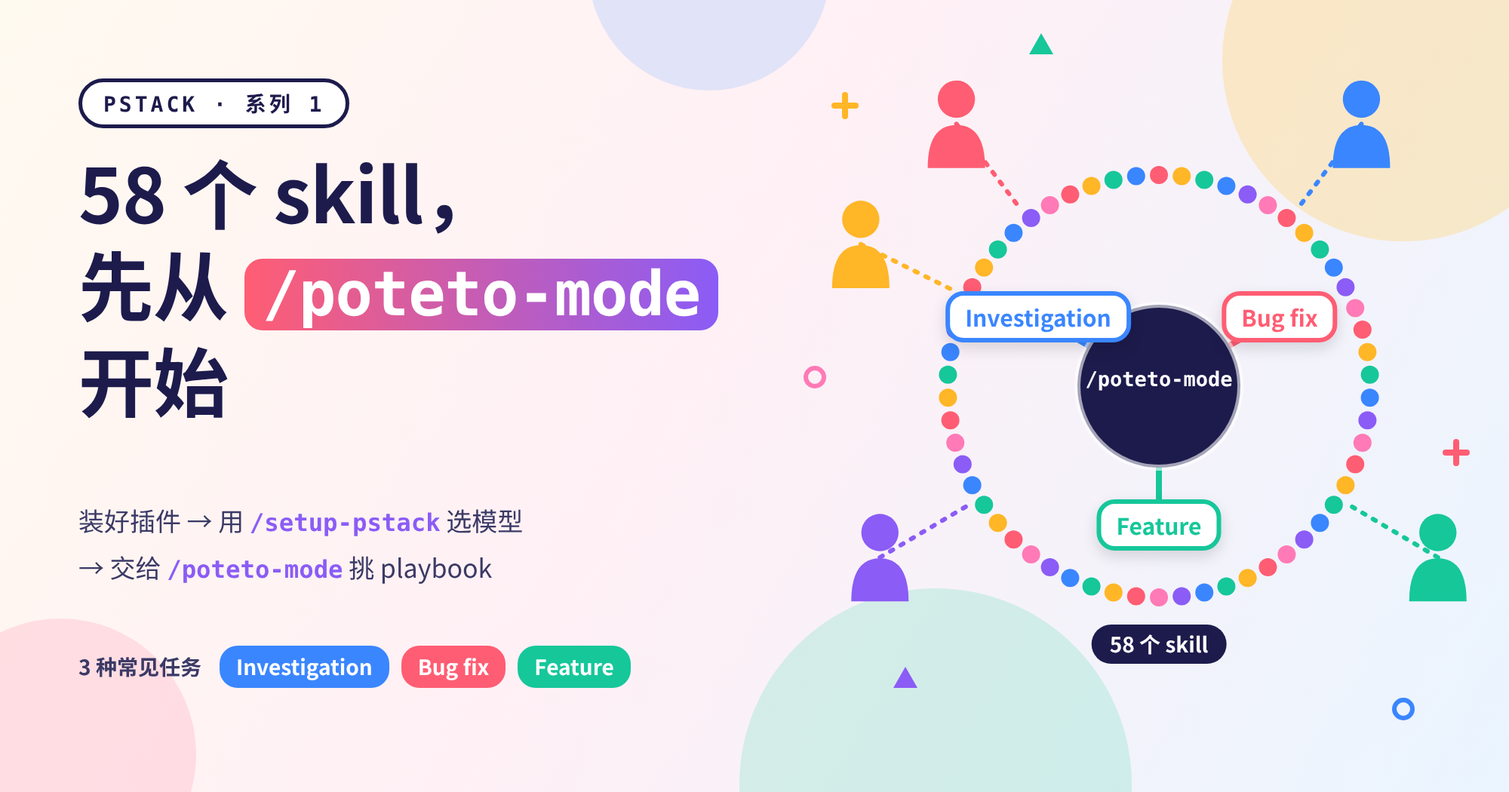
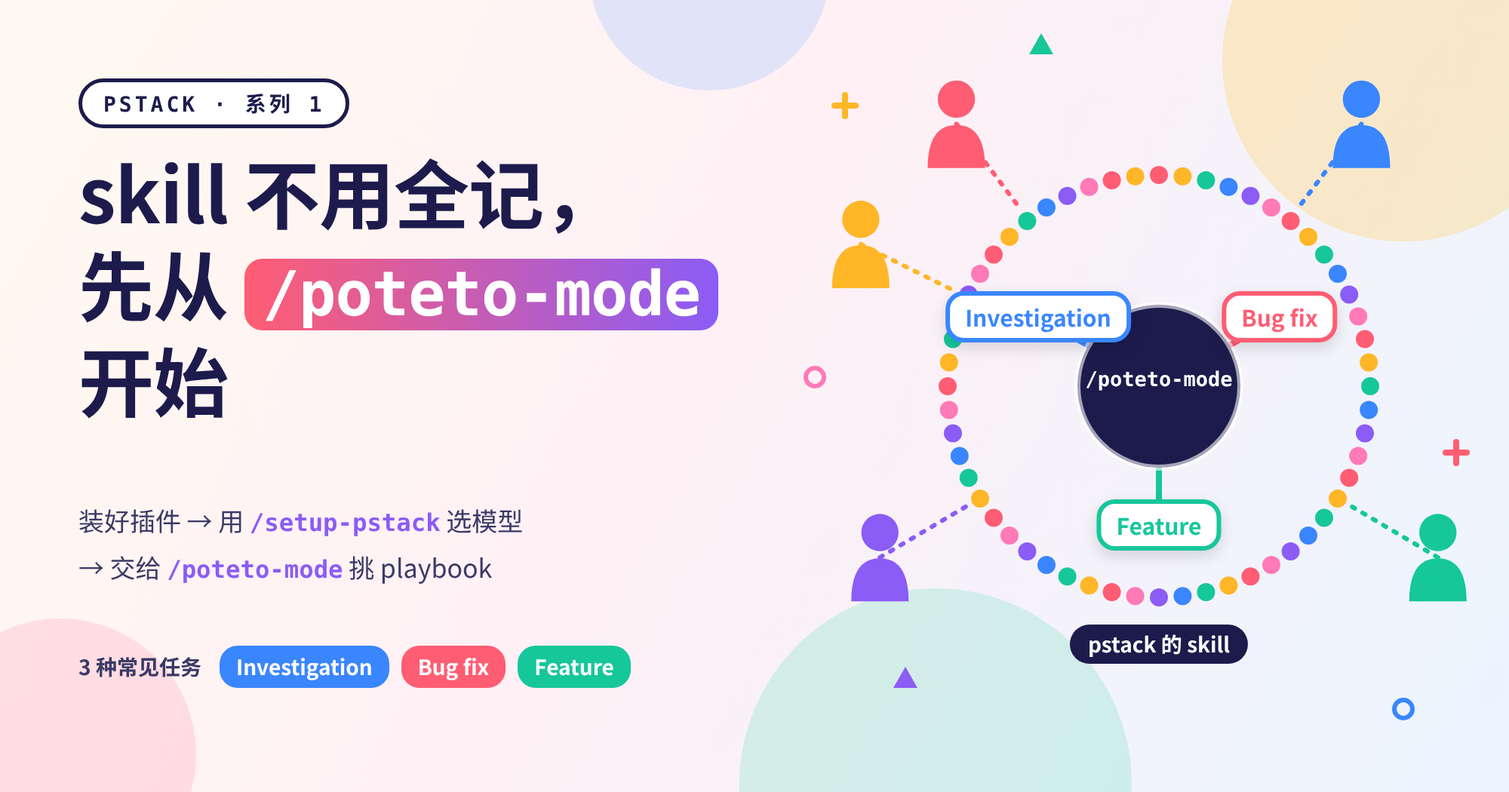
pstack 系列（1）：基準版本改回 0.15.29（88d4751）
對齊第 2 篇的版本表；版本框補上 2026-10-24 查證的最新版 0.15.32（e853501）與 diff 結果；連結改指 88d4751；cover 不再印 skill 數。

diff --git a/_posts/en/2026-10-22-pstack-install-routing.md b/_posts/en/2026-10-22-pstack-install-routing.md
@@ -10,9 +10,9 @@ image:
   alt: "How to install pstack, check its version, pick models with /setup-pstack, and then hand every task to /poteto-mode."
 ---
 
-pstack helps an AI coding assistant work in a more orderly way, but open it up and there are 58 skills. This post shows you how to start: install pstack, confirm which version you got, pick your models, and then hand every task to `/poteto-mode`. You don't need to learn every name first.
+pstack helps an AI coding assistant work in a more orderly way, but open it up and there are dozens of skills. This post shows you how to start: install pstack, confirm which version you got, pick your models, and then hand every task to `/poteto-mode`. You don't need to learn every name first.
 
-A few terms first. An AI coding assistant is a tool such as Cursor or Claude Code that can read and write the files in your project and write code for you. A skill is a set of instructions that tells the AI how to do one kind of work, and you call it with a slash command such as `/poteto-mode`. pstack is a set of skills that Lauren Tan maintains in Cursor's official plugin repository, [`cursor/plugins`](https://github.com/cursor/plugins/tree/e853501d1a466d9cfcda381a677b09b0d17f758f/pstack). A playbook is a fixed list of steps for one type of task; for example, "fix a bug" means reproduce it, find the cause, fix it, and then verify. A subagent is a separate AI that the main chat sends off to do one small piece of work. A token is the unit an AI's usage is counted in; the more it reads and writes, the more tokens it uses.
+A few terms first. An AI coding assistant is a tool such as Cursor or Claude Code that can read and write the files in your project and write code for you. A skill is a set of instructions that tells the AI how to do one kind of work, and you call it with a slash command such as `/poteto-mode`. pstack is a set of skills that Lauren Tan maintains in Cursor's official plugin repository, [`cursor/plugins`](https://github.com/cursor/plugins/tree/88d47514b82e7c44f00f2b2a72ff6dd12158038c/pstack). A playbook is a fixed list of steps for one type of task; for example, "fix a bug" means reproduce it, find the cause, fix it, and then verify. A subagent is a separate AI that the main chat sends off to do one small piece of work. A token is the unit an AI's usage is counted in; the more it reads and writes, the more tokens it uses.
 
 The whole flow has three steps: install once, pick models once with `/setup-pstack`, and start every new task with `/poteto-mode`. Say what you want and what "done" looks like, and it picks the playbook. When you're not sure what to use, ask `/poteto-help`.
 
@@ -23,23 +23,23 @@ The example prompts in this post are generic. Copy them and swap in details from
 > - Series guide: What pstack is and how to read the four parts (not yet published)
 > - Next (Part 2): [Understand the code, then design, before you change it](/posts/pstack-understand-design/)
 >
-> **Version note**: This post is based on pstack [version `0.15.32`](https://github.com/cursor/plugins/blob/e853501d1a466d9cfcda381a677b09b0d17f758f/pstack/.cursor-plugin/plugin.json), at `cursor/plugins` main commit `e853501` (2026-10-24 10:32 Taipei time). The pstack folder last changed in commit `e73df47` (2026-10-24 06:56). The Claude Code commands and menus follow the [official docs](https://code.claude.com/docs/en/plugins/install) as read on 2026-10-24. Later versions may change commands and behavior.
+> **Version note**: This post is based on pstack [version `0.15.29`](https://github.com/cursor/plugins/blob/88d47514b82e7c44f00f2b2a72ff6dd12158038c/pstack/.cursor-plugin/plugin.json), at `cursor/plugins` commit `88d4751`, the version when this post first went out on 2026-10-22. When it was rewritten as a tutorial on 2026-10-24, it stayed on this version. The Claude Code commands and menus follow the [official docs](https://code.claude.com/docs/en/plugins/install) as read on 2026-10-24. Later versions may change commands and behavior.
 >
-> This post first went out on 2026-10-22 based on `0.15.29` (`88d4751`). On 2026-10-24 it was rewritten as a tutorial and updated to the newer version.
+> When checked on 2026-10-24 at 10:51 Taipei time, the latest version on `cursor/plugins` main was `0.15.32` (commit `e853501`), and the skill count had risen to 58 with the addition of `statechart` and `ketchup-video`. Compared with `0.15.29`, `setup-pstack`, the install guide, and the Claude Code notes haven't changed; `poteto-mode`'s SKILL.md and playbooks haven't changed, and only its internal scripts were updated; `poteto-help` only added two rows for those two new skills to its lookup table.
 {: .prompt-info }
 
 ## What pstack Installs
 
-Version `0.15.32` has 58 skills, and each skill is a slash command. It also has two dedicated subagents, `poteto-agent` and `comment-sicko`, plus 23 playbooks under `poteto-mode`.
+Version `0.15.29` has 56 skills, and each skill is a slash command. It also has two dedicated subagents, `poteto-agent` and `comment-sicko`, plus 23 playbooks under `poteto-mode`.
 
-In Claude Code, a plugin's commands carry the plugin's name as a prefix, so Cursor's `/poteto-mode` becomes `/pstack:poteto-mode` (see the [README](https://github.com/cursor/plugins/blob/e853501d1a466d9cfcda381a677b09b0d17f758f/pstack/README.md#L30)). The examples below use the Claude Code form; in Cursor, just drop `pstack:`. Other differences are listed in the official [Claude Code notes](https://github.com/cursor/plugins/blob/e853501d1a466d9cfcda381a677b09b0d17f758f/pstack/docs/harness/claude-code.md).
+In Claude Code, a plugin's commands carry the plugin's name as a prefix, so Cursor's `/poteto-mode` becomes `/pstack:poteto-mode` (see the [README](https://github.com/cursor/plugins/blob/88d47514b82e7c44f00f2b2a72ff6dd12158038c/pstack/README.md#L28)). The examples below use the Claude Code form; in Cursor, just drop `pstack:`. Other differences are listed in the official [Claude Code notes](https://github.com/cursor/plugins/blob/88d47514b82e7c44f00f2b2a72ff6dd12158038c/pstack/docs/harness/claude-code.md).
 
 ![Four steps: install pstack, check and update or pin the version, pick models with /setup-pstack, start each task with /poteto-mode](install-setup-flow.en.png){: width="800" height="450" }
 _The first-run flow: install, check the version, pick models, then start from /poteto-mode._
 
 ## Step 1: Install
 
-The [README](https://github.com/cursor/plugins/blob/e853501d1a466d9cfcda381a677b09b0d17f758f/pstack/README.md#L15-L26) and the [setup guide](https://github.com/cursor/plugins/blob/e853501d1a466d9cfcda381a677b09b0d17f758f/pstack/docs/guide/01-setup.md#L5-L15) list two ways to install. In a Cursor chat, type:
+The [README](https://github.com/cursor/plugins/blob/88d47514b82e7c44f00f2b2a72ff6dd12158038c/pstack/README.md#L15-L26) and the [setup guide](https://github.com/cursor/plugins/blob/88d47514b82e7c44f00f2b2a72ff6dd12158038c/pstack/docs/guide/01-setup.md#L5-L15) list two ways to install. In a Cursor chat, type:
 
 ```text
 /add-plugin pstack
@@ -69,11 +69,11 @@ After installing, confirm which version you have. According to the [Claude Code 
 claude plugin list
 ```
 
-Compare the version with [`plugin.json`](https://github.com/cursor/plugins/blob/e853501d1a466d9cfcda381a677b09b0d17f758f/pstack/.cursor-plugin/plugin.json) to see whether you have the same version this post uses.
+Compare the version with [`plugin.json`](https://github.com/cursor/plugins/blob/88d47514b82e7c44f00f2b2a72ff6dd12158038c/pstack/.cursor-plugin/plugin.json) to see whether you have the same version this post uses.
 
 ### Updates: Off by Default
 
-According to the [README](https://github.com/cursor/plugins/blob/e853501d1a466d9cfcda381a677b09b0d17f758f/pstack/README.md#L28) and the [Claude Code docs](https://code.claude.com/docs/en/plugins/install#keep-plugins-updated), Claude Code leaves auto-update **off** for third-party marketplaces, so pstack stays on the version you installed.
+According to the [Claude Code docs](https://code.claude.com/docs/en/plugins/install#keep-plugins-updated), Claude Code leaves auto-update **off** for third-party marketplaces, so pstack stays on the version you installed.
 
 - **To update once by hand**: run the line below in your terminal.
 - **To turn on auto-update**: type `/plugin` in a chat, open the Marketplaces tab, select `cursor-plugins`, and choose Enable auto-update.
@@ -97,7 +97,7 @@ The official docs support adding a local folder as a marketplace. So you can dow
 
 ```bash
 git clone https://github.com/cursor/plugins.git ~/src/cursor-plugins
-git -C ~/src/cursor-plugins checkout e853501d1a466d9cfcda381a677b09b0d17f758f
+git -C ~/src/cursor-plugins checkout 88d47514b82e7c44f00f2b2a72ff6dd12158038c
 claude plugin marketplace add ~/src/cursor-plugins
 claude plugin install pstack@cursor-plugins
 ```
@@ -108,9 +108,9 @@ This is the same "clone, then check out a reviewed commit" approach the [supply-
 
 ## Step 3: Pick Models With /setup-pstack
 
-pstack splits work across roles, such as the one that writes code, the one that makes judgment calls, and the ones that sit on a review panel, and each role can use a different model. [`/setup-pstack`](https://github.com/cursor/plugins/blob/e853501d1a466d9cfcda381a677b09b0d17f758f/pstack/skills/setup-pstack/SKILL.md) picks the models for those roles.
+pstack splits work across roles, such as the one that writes code, the one that makes judgment calls, and the ones that sit on a review panel, and each role can use a different model. [`/setup-pstack`](https://github.com/cursor/plugins/blob/88d47514b82e7c44f00f2b2a72ff6dd12158038c/pstack/skills/setup-pstack/SKILL.md) picks the models for those roles.
 
-**When to use it**: once after installing. Run it again when you switch accounts or plans, or want different models. According to the [setup guide](https://github.com/cursor/plugins/blob/e853501d1a466d9cfcda381a677b09b0d17f758f/pstack/docs/guide/01-setup.md#L29), a rerun keeps any role you changed.
+**When to use it**: once after installing. Run it again when you switch accounts or plans, or want different models. According to the [setup guide](https://github.com/cursor/plugins/blob/88d47514b82e7c44f00f2b2a72ff6dd12158038c/pstack/docs/guide/01-setup.md#L29), a rerun keeps any role you changed.
 
 **The command**:
 
@@ -118,7 +118,7 @@ pstack splits work across roles, such as the one that writes code, the one that 
 /pstack:setup-pstack
 ```
 
-**What it does, step by step** ([SKILL.md](https://github.com/cursor/plugins/blob/e853501d1a466d9cfcda381a677b09b0d17f758f/pstack/skills/setup-pstack/SKILL.md#L10-L78)):
+**What it does, step by step** ([SKILL.md](https://github.com/cursor/plugins/blob/88d47514b82e7c44f00f2b2a72ff6dd12158038c/pstack/skills/setup-pstack/SKILL.md#L10-L78)):
 
 1. **Detects the models you can choose from.**
 2. **Asks you for a reasoning budget.** The budget sets how hard a model thinks, also called effort. A higher level is more thorough but uses more tokens.
@@ -136,16 +136,16 @@ There are four budgets:
 | medium | `high` |
 | small | `medium` |
 
-**What you get**: a global model settings file. Cursor writes `~/.cursor/rules/pstack-models.mdc`; Claude Code writes `~/.claude/rules/pstack-models.md`. Both live in your home folder. "Global" means it applies to every project on your computer, not just the current one. According to the [Claude Code notes](https://github.com/cursor/plugins/blob/e853501d1a466d9cfcda381a677b09b0d17f758f/pstack/docs/harness/claude-code.md#L37), Claude Code loads the file automatically at the start of every new session.
+**What you get**: a global model settings file. Cursor writes `~/.cursor/rules/pstack-models.mdc`; Claude Code writes `~/.claude/rules/pstack-models.md`. Both live in your home folder. "Global" means it applies to every project on your computer, not just the current one. According to the [Claude Code notes](https://github.com/cursor/plugins/blob/88d47514b82e7c44f00f2b2a72ff6dd12158038c/pstack/docs/harness/claude-code.md#L37), Claude Code loads the file automatically at the start of every new session.
 
-**Next**: open a new chat. According to the [setup guide](https://github.com/cursor/plugins/blob/e853501d1a466d9cfcda381a677b09b0d17f758f/pstack/docs/guide/01-setup.md#L43), the model settings only apply to new sessions.
+**Next**: open a new chat. According to the [setup guide](https://github.com/cursor/plugins/blob/88d47514b82e7c44f00f2b2a72ff6dd12158038c/pstack/docs/guide/01-setup.md#L43), the model settings only apply to new sessions.
 
-> **Pick only models your account can actually use.** According to the [Claude Code notes](https://github.com/cursor/plugins/blob/e853501d1a466d9cfcda381a677b09b0d17f758f/pstack/docs/harness/claude-code.md#L44), in Claude Code the "detected models" are the model names the subagent tool accepts. That doesn't mean your account or plan can use every one of them. If you're not sure, set a role to `inherit-parent` or `auto`, and it uses the main chat's model (see the [setup guide](https://github.com/cursor/plugins/blob/e853501d1a466d9cfcda381a677b09b0d17f758f/pstack/docs/guide/01-setup.md#L31)).
+> **Pick only models your account can actually use.** According to the [Claude Code notes](https://github.com/cursor/plugins/blob/88d47514b82e7c44f00f2b2a72ff6dd12158038c/pstack/docs/harness/claude-code.md#L44), in Claude Code the "detected models" are the model names the subagent tool accepts. That doesn't mean your account or plan can use every one of them. If you're not sure, set a role to `inherit-parent` or `auto`, and it uses the main chat's model (see the [setup guide](https://github.com/cursor/plugins/blob/88d47514b82e7c44f00f2b2a72ff6dd12158038c/pstack/docs/guide/01-setup.md#L31)).
 {: .prompt-tip }
 
 ## When You're Unsure: Ask /poteto-help
 
-[`/poteto-help`](https://github.com/cursor/plugins/blob/e853501d1a466d9cfcda381a677b09b0d17f758f/pstack/skills/poteto-help/SKILL.md) is pstack's help desk.
+[`/poteto-help`](https://github.com/cursor/plugins/blob/88d47514b82e7c44f00f2b2a72ff6dd12158038c/pstack/skills/poteto-help/SKILL.md) is pstack's help desk.
 
 **When to use it**: you don't know which skill to use or what to do first, or you want to know how to spend fewer tokens.
 
@@ -163,7 +163,7 @@ There are four budgets:
 /pstack:poteto-help pstack uses a lot of tokens. How can I use fewer?
 ```
 
-**What it does** ([SKILL.md](https://github.com/cursor/plugins/blob/e853501d1a466d9cfcda381a677b09b0d17f758f/pstack/skills/poteto-help/SKILL.md#L9-L34)):
+**What it does** ([SKILL.md](https://github.com/cursor/plugins/blob/88d47514b82e7c44f00f2b2a72ff6dd12158038c/pstack/skills/poteto-help/SKILL.md#L9-L34)):
 
 - It answers your question, gives you a prompt you can send as is, and links the file the answer came from.
 - For a "how do I" question, it does **not** start the work itself. It lets you decide whether to send the prompt, because a real run spends tokens.
@@ -174,11 +174,11 @@ A message that asks for work, such as "use pstack to fix this bug", isn't a help
 
 ## Every Task: Start With /poteto-mode
 
-[`/poteto-mode`](https://github.com/cursor/plugins/blob/e853501d1a466d9cfcda381a677b09b0d17f758f/pstack/skills/poteto-mode/SKILL.md) is pstack's front door. Say clearly what you want, and it picks a playbook, follows its steps, and calls other skills when a step needs them.
+[`/poteto-mode`](https://github.com/cursor/plugins/blob/88d47514b82e7c44f00f2b2a72ff6dd12158038c/pstack/skills/poteto-mode/SKILL.md) is pstack's front door. Say clearly what you want, and it picks a playbook, follows its steps, and calls other skills when a step needs them.
 
 ### How to Write the Task
 
-According to [guide chapter 2](https://github.com/cursor/plugins/blob/e853501d1a466d9cfcda381a677b09b0d17f758f/pstack/docs/guide/02-poteto-mode.md#L40-L59), a good task description has at most five parts, and one sentence each is enough:
+According to [guide chapter 2](https://github.com/cursor/plugins/blob/88d47514b82e7c44f00f2b2a72ff6dd12158038c/pstack/docs/guide/02-poteto-mode.md#L40-L59), a good task description has at most five parts, and one sentence each is enough:
 
 - **The goal**: what's broken, or what you want. In other words, the symptom.
 - **What counts as done**: something that can pass or fail. "Make it better" and "work on it for an hour" don't count.
@@ -186,7 +186,7 @@ According to [guide chapter 2](https://github.com/cursor/plugins/blob/e853501d1a
 - **What you already know**: an error message, steps to reproduce, a related link. These save it a search.
 - **Real constraints**: for example, "reproduce first", "don't change any code yet", "zero behavior change", or "let me review before you proceed".
 
-Leave two things out: **how to do it** (give it room to find a better way) and **your guess at the cause** (a stated guess narrows its search). Also don't list which skills to use in your prompt. The playbook already orders them, and a hand-written order tends to drop or reorder steps ([guide chapter 2](https://github.com/cursor/plugins/blob/e853501d1a466d9cfcda381a677b09b0d17f758f/pstack/docs/guide/02-poteto-mode.md#L135)).
+Leave two things out: **how to do it** (give it room to find a better way) and **your guess at the cause** (a stated guess narrows its search). Also don't list which skills to use in your prompt. The playbook already orders them, and a hand-written order tends to drop or reorder steps ([guide chapter 2](https://github.com/cursor/plugins/blob/88d47514b82e7c44f00f2b2a72ff6dd12158038c/pstack/docs/guide/02-poteto-mode.md#L135)).
 
 ### Three Examples to Adapt
 
@@ -208,14 +208,14 @@ Leave two things out: **how to do it** (give it room to find a better way) and *
 /pstack:poteto-mode Add a --json flag to this command. The existing text output must not change at all. Verify both outputs.
 ```
 
-According to [guide chapter 2](https://github.com/cursor/plugins/blob/e853501d1a466d9cfcda381a677b09b0d17f758f/pstack/docs/guide/02-poteto-mode.md#L103), the phrase "don't change any code yet" pins a task to the Investigation playbook.
+According to [guide chapter 2](https://github.com/cursor/plugins/blob/88d47514b82e7c44f00f2b2a72ff6dd12158038c/pstack/docs/guide/02-poteto-mode.md#L103), the phrase "don't change any code yet" pins a task to the Investigation playbook.
 
 ### What It Does
 
 ![Your task states the goal and done check; /poteto-mode matches a playbook and copies its steps into a todo list, marking skips](poteto-mode-routing.en.png){: width="800" height="450" }
 _/poteto-mode first identifies the task type, then follows that playbook's steps._
 
-1. **It identifies the task type and picks a playbook.** The [playbook list](https://github.com/cursor/plugins/blob/e853501d1a466d9cfcda381a677b09b0d17f758f/pstack/skills/poteto-mode/SKILL.md#L121-L149) covers Investigation, Bug fix, Perf issue, Feature, Refactoring, Prototype, writing a skill, and more. Large or cross-cutting work, or work you'll step away from and check later, goes to the `figure-it-out` skill, which designs its own process.
+1. **It identifies the task type and picks a playbook.** The [playbook list](https://github.com/cursor/plugins/blob/88d47514b82e7c44f00f2b2a72ff6dd12158038c/pstack/skills/poteto-mode/SKILL.md#L121-L149) covers Investigation, Bug fix, Perf issue, Feature, Refactoring, Prototype, writing a skill, and more. Large or cross-cutting work, or work you'll step away from and check later, goes to the `figure-it-out` skill, which designs its own process.
 2. **It copies the playbook's steps verbatim into a todo list**, ahead of any other todos.
 3. **Steps it decides not to do don't disappear.** They stay on the list marked `skip: <reason>`, so you can see what it chose not to do.
 4. **It works through the steps**, and calls any other skill a step needs on its own.
@@ -224,22 +224,22 @@ _/poteto-mode first identifies the task type, then follows that playbook's steps
 ### What You Get
 
 - A todo list you can see, including skipped steps and their reasons.
-- A final reply: what it did, the tradeoffs, and the decisions left to you. According to the [SKILL.md](https://github.com/cursor/plugins/blob/e853501d1a466d9cfcda381a677b09b0d17f758f/pstack/skills/poteto-mode/SKILL.md#L110-L115), the reply is short but keeps every section the playbook asks for, and it includes the PR link if it opened one.
+- A final reply: what it did, the tradeoffs, and the decisions left to you. According to the [SKILL.md](https://github.com/cursor/plugins/blob/88d47514b82e7c44f00f2b2a72ff6dd12158038c/pstack/skills/poteto-mode/SKILL.md#L110-L115), the reply is short but keeps every section the playbook asks for, and it includes the PR link if it opened one.
 
 ### Next Steps
 
-- **Keep going**: once the chat holds the task, a short line is enough, such as "do it", "continue", or "keep going until done" ([guide chapter 2](https://github.com/cursor/plugins/blob/e853501d1a466d9cfcda381a677b09b0d17f758f/pstack/docs/guide/02-poteto-mode.md#L77-L93)).
-- **Change the subject**: to switch tasks in the same chat, start with "new task" so it picks a fresh playbook instead of treating the new problem as the next step of the last one ([guide chapter 2](https://github.com/cursor/plugins/blob/e853501d1a466d9cfcda381a677b09b0d17f758f/pstack/docs/guide/02-poteto-mode.md#L95-L103)).
+- **Keep going**: once the chat holds the task, a short line is enough, such as "do it", "continue", or "keep going until done" ([guide chapter 2](https://github.com/cursor/plugins/blob/88d47514b82e7c44f00f2b2a72ff6dd12158038c/pstack/docs/guide/02-poteto-mode.md#L77-L93)).
+- **Change the subject**: to switch tasks in the same chat, start with "new task" so it picks a fresh playbook instead of treating the new problem as the next step of the last one ([guide chapter 2](https://github.com/cursor/plugins/blob/88d47514b82e7c44f00f2b2a72ff6dd12158038c/pstack/docs/guide/02-poteto-mode.md#L95-L103)).
 
 ```text
 /pstack:poteto-mode new task. figure out why the cache entry survives logout. don't change any code yet.
 ```
 
-- **Call it again for each new task**: in Cursor, you can pick `/poteto-mode` from the `/` menu with Option+Enter (Mac) or Alt+Enter (Windows) to make it a Custom Mode, a mode that stays on for the whole chat. According to the [`poteto-help` notes](https://github.com/cursor/plugins/blob/e853501d1a466d9cfcda381a677b09b0d17f758f/pstack/skills/poteto-help/SKILL.md#L54-L58), Cursor's docs list Custom Modes only in the Agents Window and the CLI. Everywhere else, Claude Code included, start each new task with `/pstack:poteto-mode`.
+- **Call it again for each new task**: in Cursor, you can pick `/poteto-mode` from the `/` menu with Option+Enter (Mac) or Alt+Enter (Windows) to make it a Custom Mode, a mode that stays on for the whole chat. According to the [`poteto-help` notes](https://github.com/cursor/plugins/blob/88d47514b82e7c44f00f2b2a72ff6dd12158038c/pstack/skills/poteto-help/SKILL.md#L54-L58), Cursor's docs list Custom Modes only in the Agents Window and the CLI. Everywhere else, Claude Code included, start each new task with `/pstack:poteto-mode`.
 
 ## Should You Install cursor-team-kit Too?
 
-The [README](https://github.com/cursor/plugins/blob/e853501d1a466d9cfcda381a677b09b0d17f758f/pstack/README.md#L259-L267) says three things `/poteto-mode` uses aren't in pstack but in another plugin, `cursor-team-kit`: `/deslop`, which cleans up code, and `control-cli` and `control-ui`, which drive a CLI (a program you run with typed commands in a terminal) and a browser UI. The README's advice is to install `cursor-team-kit` alongside pstack for the full set. [Guide chapter 5](https://github.com/cursor/plugins/blob/e853501d1a466d9cfcda381a677b09b0d17f758f/pstack/docs/guide/05-build-and-clean.md#L59) adds that the steps before opening a PR run `/deslop`. If you don't have it, ask for the same cleanup in plain words, such as removing narrating comments, defensive code with no reason behind it, and changes unrelated to the task.
+The [README](https://github.com/cursor/plugins/blob/88d47514b82e7c44f00f2b2a72ff6dd12158038c/pstack/README.md#L255-L263) says three things `/poteto-mode` uses aren't in pstack but in another plugin, `cursor-team-kit`: `/deslop`, which cleans up code, and `control-cli` and `control-ui`, which drive a CLI (a program you run with typed commands in a terminal) and a browser UI. The README's advice is to install `cursor-team-kit` alongside pstack for the full set. [Guide chapter 5](https://github.com/cursor/plugins/blob/88d47514b82e7c44f00f2b2a72ff6dd12158038c/pstack/docs/guide/05-build-and-clean.md#L59) adds that the steps before opening a PR run `/deslop`. If you don't have it, ask for the same cleanup in plain words, such as removing narrating comments, defensive code with no reason behind it, and changes unrelated to the task.
 
 ## When to Use Which
 
@@ -282,8 +282,8 @@ This description gives the symptom, the done check, and the proof you want. It d
 
 ## Things to Keep in Mind
 
-- **Small edits don't need pstack.** The [setup guide](https://github.com/cursor/plugins/blob/e853501d1a466d9cfcda381a677b09b0d17f758f/pstack/docs/guide/01-setup.md#L52) is clear on this: for a small, obvious edit, just ask.
-- **pstack uses extra tokens.** It sends out subagents and review panels, and that's the price of the rigor. The [setup guide](https://github.com/cursor/plugins/blob/e853501d1a466d9cfcda381a677b09b0d17f758f/pstack/docs/guide/01-setup.md#L45-L52) lists ways to spend fewer: rerun `/setup-pstack` with a smaller budget or cheaper models, set a role to `auto` or `inherit-parent` so it uses the main chat's model, shorten a review panel's model list (each entry runs one more subagent), and save `/poteto-mode` for work that needs rigor.
+- **Small edits don't need pstack.** The [setup guide](https://github.com/cursor/plugins/blob/88d47514b82e7c44f00f2b2a72ff6dd12158038c/pstack/docs/guide/01-setup.md#L52) is clear on this: for a small, obvious edit, just ask.
+- **pstack uses extra tokens.** It sends out subagents and review panels, and that's the price of the rigor. The [setup guide](https://github.com/cursor/plugins/blob/88d47514b82e7c44f00f2b2a72ff6dd12158038c/pstack/docs/guide/01-setup.md#L45-L52) lists ways to spend fewer: rerun `/setup-pstack` with a smaller budget or cheaper models, set a role to `auto` or `inherit-parent` so it uses the main chat's model, shorten a review panel's model list (each entry runs one more subagent), and save `/poteto-mode` for work that needs rigor.
 - **The model settings are global.** A change affects every project on this computer.
 - **Check what changed before you update.** Claude Code leaves auto-update off for third-party marketplaces, which gives you the chance to look first.
 - **Don't order skills in your prompt.** Let the playbook do it.
@@ -292,15 +292,15 @@ If you'd like to see another skill set built around "set up first, then let a he
 
 ## Conclusion
 
-You don't need to learn all 58 skills before using pstack. Install it once from the official source, check the version with `claude plugin list`, and look at what changed before you update. Pick models once with `/setup-pstack`, and only pick ones your account can use. Then start every new task with `/poteto-mode` (`/pstack:poteto-mode` in Claude Code), state the goal and what counts as done, and let it pick the playbook. When you're unsure, ask `/poteto-help`. The next part covers how to use pstack to understand the code, then design, before you change it.
+You don't need to learn every skill before using pstack. Install it once from the official source, check the version with `claude plugin list`, and look at what changed before you update. Pick models once with `/setup-pstack`, and only pick ones your account can use. Then start every new task with `/poteto-mode` (`/pstack:poteto-mode` in Claude Code), state the goal and what counts as done, and let it pick the playbook. When you're unsure, ask `/poteto-help`. The next part covers how to use pstack to understand the code, then design, before you change it.
 
 ## Further Reading
 
-- [pstack README](https://github.com/cursor/plugins/blob/e853501d1a466d9cfcda381a677b09b0d17f758f/pstack/README.md): installing, updating, and the parts not shipped in pstack.
-- [Setup guide: Set up pstack](https://github.com/cursor/plugins/blob/e853501d1a466d9cfcda381a677b09b0d17f758f/pstack/docs/guide/01-setup.md): budgets, roles, and ways to spend fewer tokens.
-- [Guide chapter 2: Route work through /poteto-mode](https://github.com/cursor/plugins/blob/e853501d1a466d9cfcda381a677b09b0d17f758f/pstack/docs/guide/02-poteto-mode.md): how to write a task, with more examples.
-- [Claude Code notes](https://github.com/cursor/plugins/blob/e853501d1a466d9cfcda381a677b09b0d17f758f/pstack/docs/harness/claude-code.md): the differences between Cursor and Claude Code.
-- [`poteto-mode` SKILL.md](https://github.com/cursor/plugins/blob/e853501d1a466d9cfcda381a677b09b0d17f758f/pstack/skills/poteto-mode/SKILL.md): the full playbook list and how it matches tasks.
+- [pstack README](https://github.com/cursor/plugins/blob/88d47514b82e7c44f00f2b2a72ff6dd12158038c/pstack/README.md): installing, and the parts not shipped in pstack.
+- [Setup guide: Set up pstack](https://github.com/cursor/plugins/blob/88d47514b82e7c44f00f2b2a72ff6dd12158038c/pstack/docs/guide/01-setup.md): budgets, roles, and ways to spend fewer tokens.
+- [Guide chapter 2: Route work through /poteto-mode](https://github.com/cursor/plugins/blob/88d47514b82e7c44f00f2b2a72ff6dd12158038c/pstack/docs/guide/02-poteto-mode.md): how to write a task, with more examples.
+- [Claude Code notes](https://github.com/cursor/plugins/blob/88d47514b82e7c44f00f2b2a72ff6dd12158038c/pstack/docs/harness/claude-code.md): the differences between Cursor and Claude Code.
+- [`poteto-mode` SKILL.md](https://github.com/cursor/plugins/blob/88d47514b82e7c44f00f2b2a72ff6dd12158038c/pstack/skills/poteto-mode/SKILL.md): the full playbook list and how it matches tasks.
 - [Claude Code: Install and manage plugins](https://code.claude.com/docs/en/plugins/install): adding, versioning, updating, and removing marketplaces.
 - [Third-Party Skills and MCP Servers: The New Attack Surface in Your Coding Agent](/posts/coding-agent-supply-chain-permission-risks/): what to check before installing a plugin.
 - [Write Your Own Agent Skill: From SKILL.md to Testing and Upkeep](/posts/agent-skill-authoring-guide/): descriptions, testing, and upkeep from a skill author's side.
